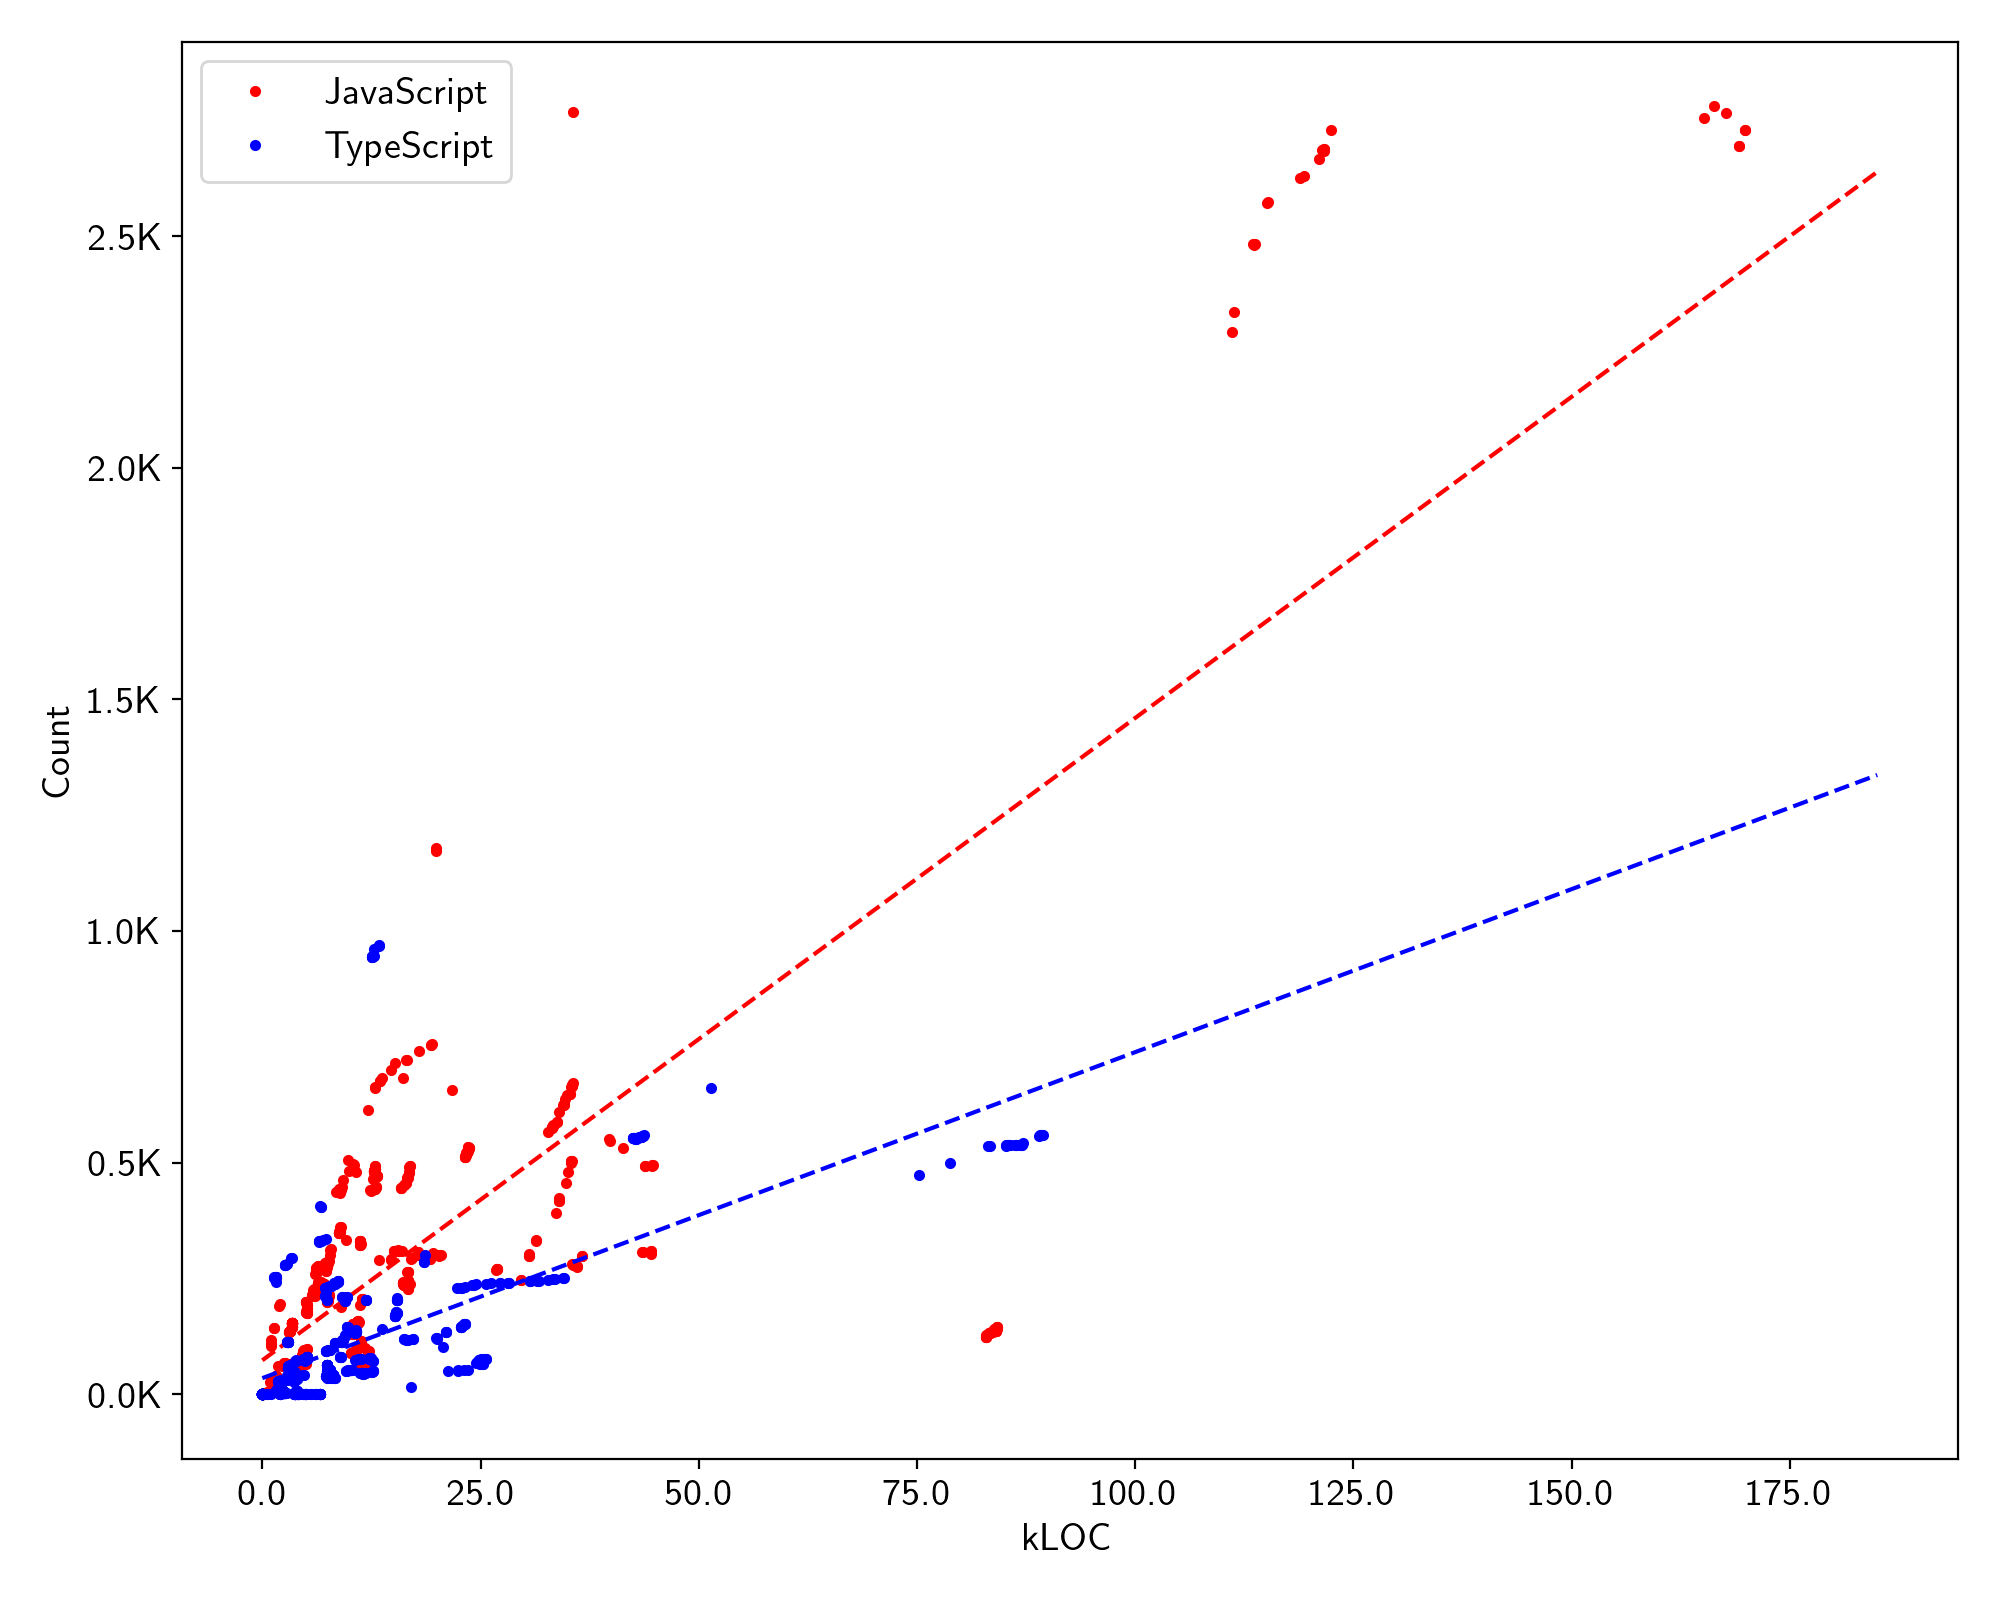
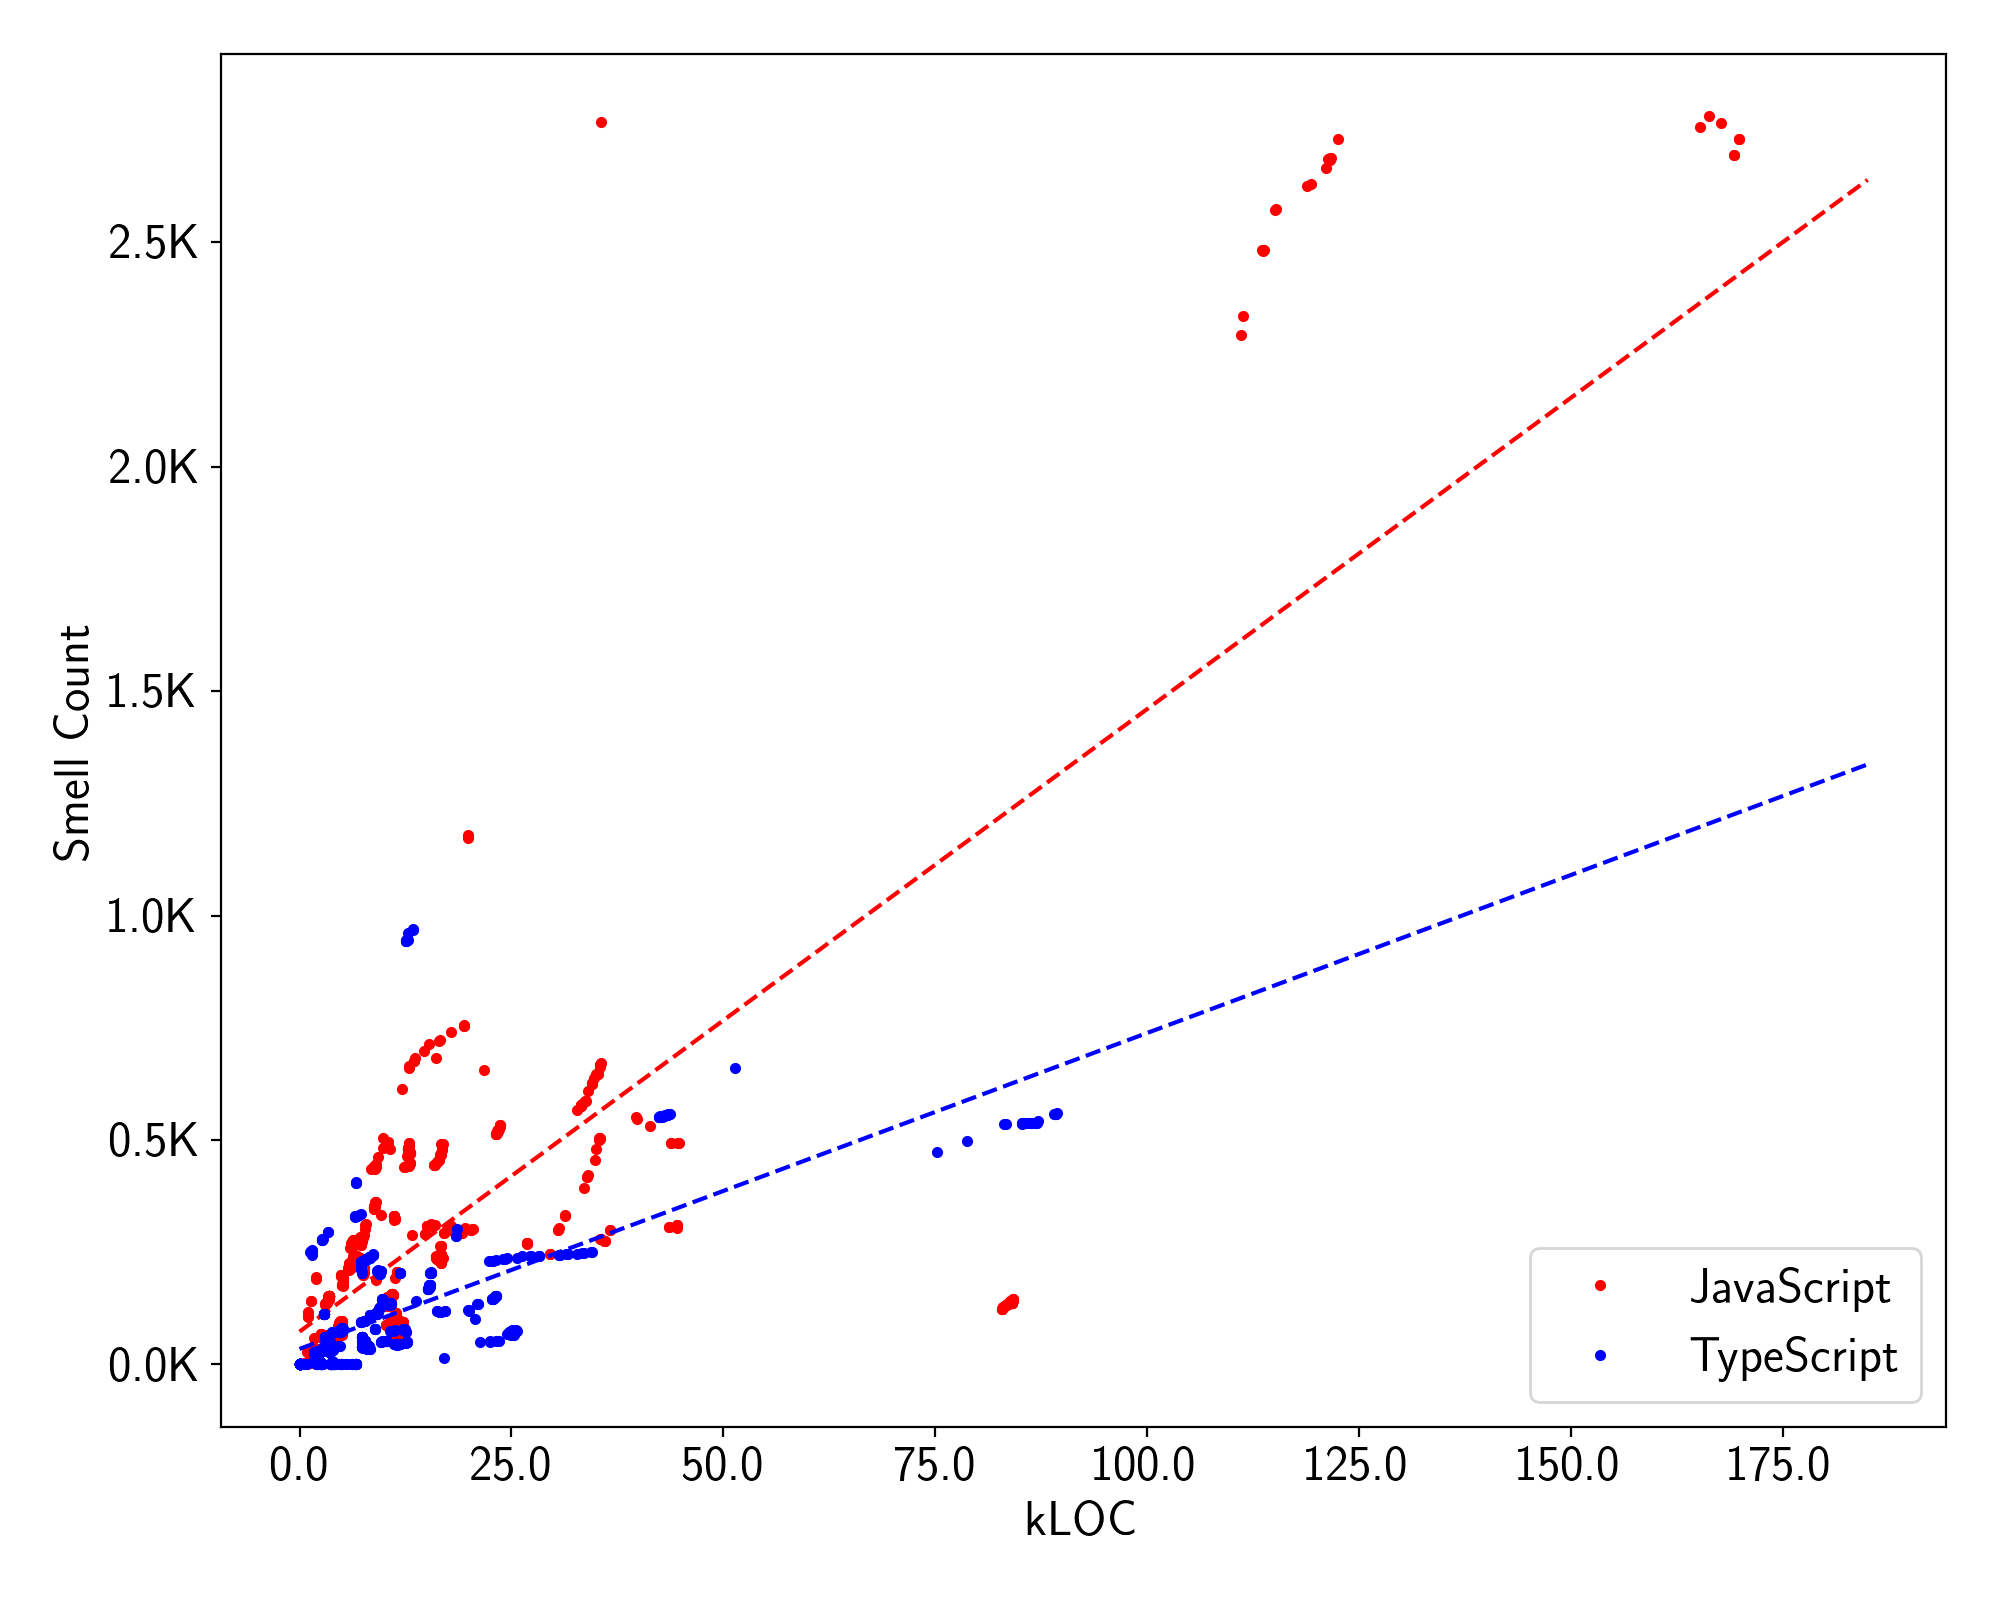
Renamed smell.

diff --git a/src/analysis.py b/src/analysis.py
@@ -708,13 +708,13 @@ class Analysis():
     def plot_smell_count_vs_size(self):
 
         # Initialize plot
-        mpl.rcParams.update({'text.usetex': True, 'font.size': 14})
+        mpl.rcParams.update({'text.usetex': True, 'font.size': 18})
         _, ax = plt.subplots(figsize = (10, 8))
 
         # Define plot title and axis labels
         #ax.set_title('Smell Count as a Function of App Size', fontweight = 'bold')
         ax.set_xlabel(r'kLOC')
-        ax.set_ylabel(r'Count')
+        ax.set_ylabel(r'Smell Count')
 
         # Change axes scale
         scale_x = 1_000

diff --git a/src/smells.py b/src/smells.py
@@ -103,8 +103,8 @@ SMELLS_DICT = {
         "description": "Variables and functions should not be redeclared",
     },
     "S3003": {
-        "label": "String Comparison",
-        "short_label": "SC",
+        "label": "Ordinal String Comparison",
+        "short_label": "OSC",
         "description": "Comparison operators should not be used with strings",
     },
     "S3516": {
